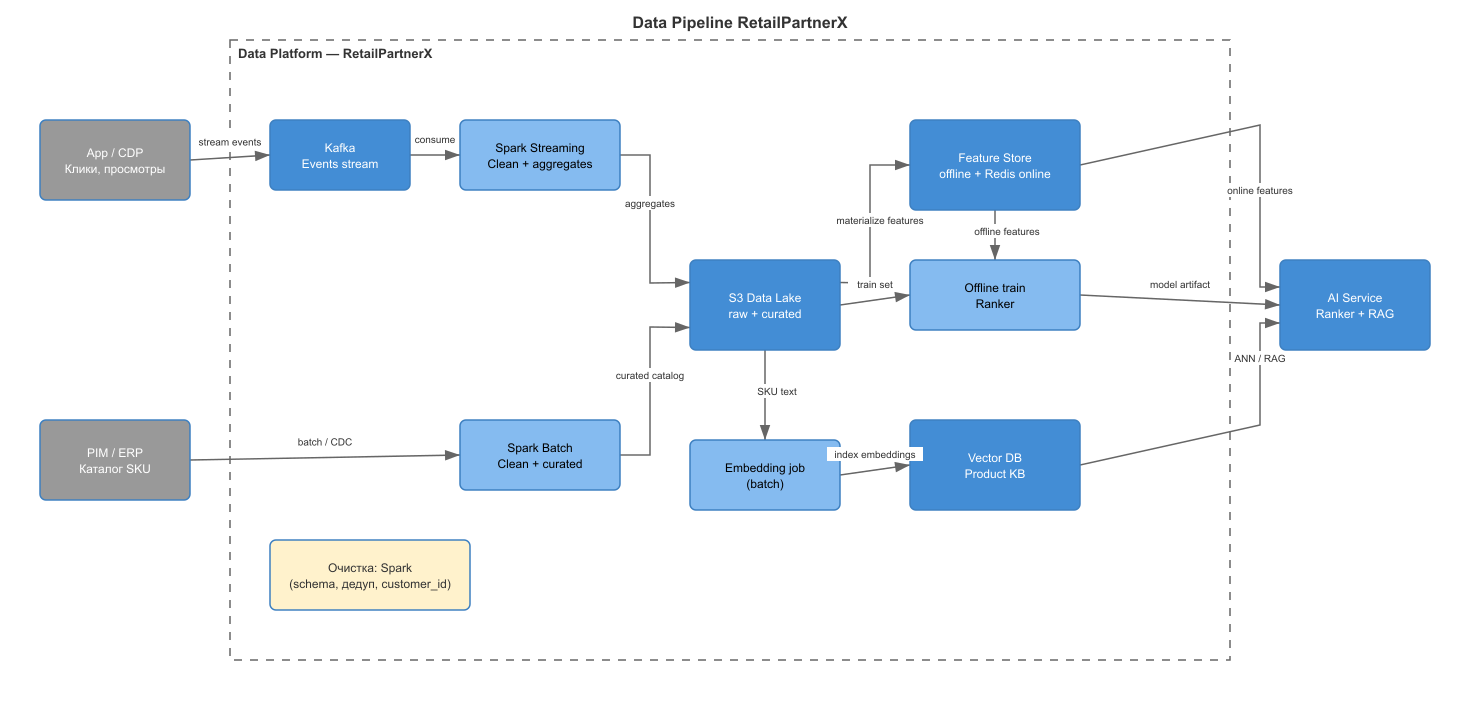
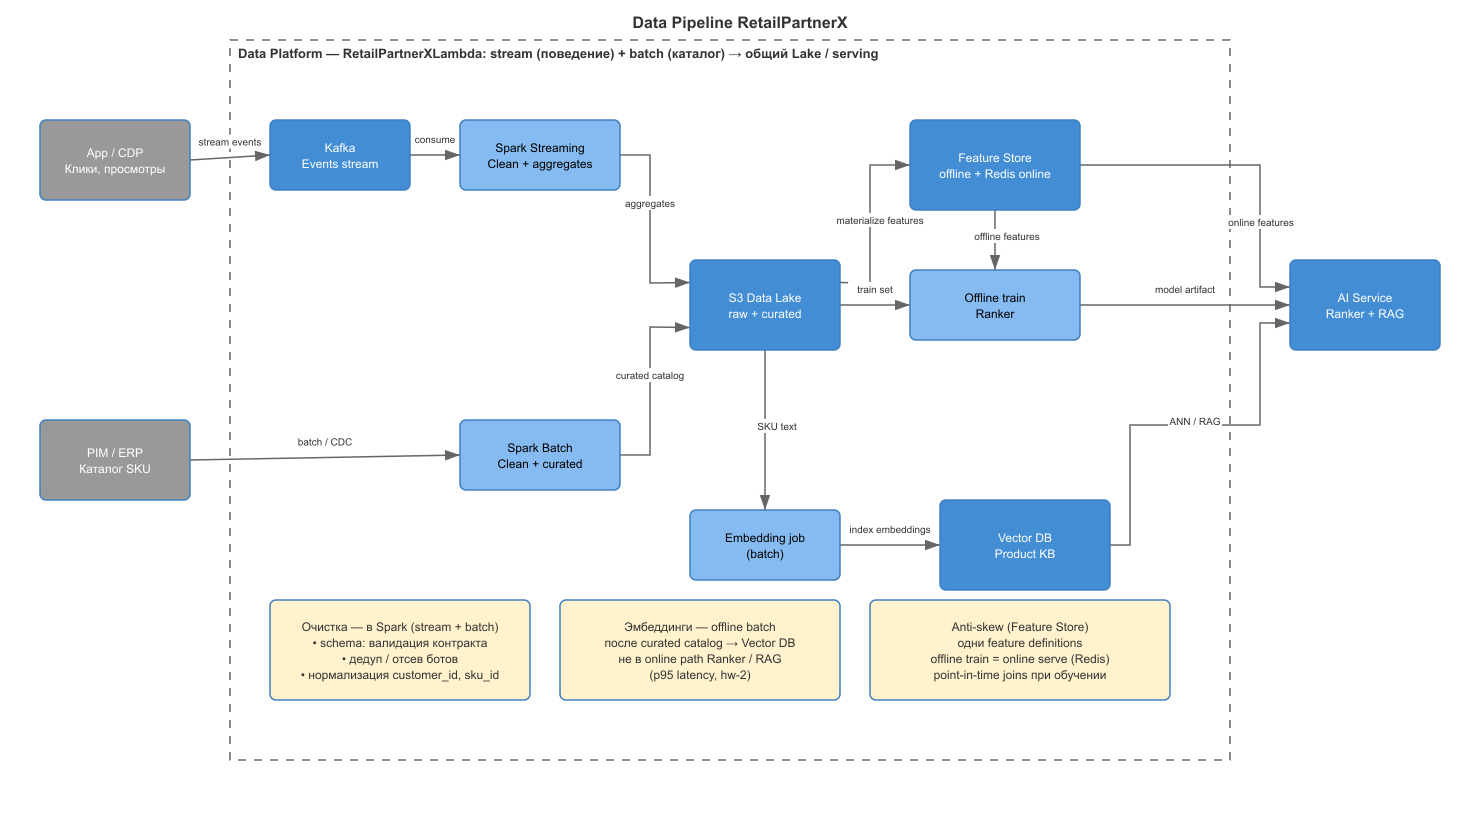
hw-5: fix

diff --git a/hw-5/README.md b/hw-5/README.md
@@ -25,10 +25,10 @@
 
 | Шаг ДЗ               | Документ / файл                                                                 |
 | -------------------- | ------------------------------------------------------------------------------- |
-| 1. Data Sources      | [docs/data-pipeline.md](docs/data-pipeline.md) — §1 источники (stream / batch)  |
-| 2. Pipeline Design   | [diagrams/data-pipeline.png](diagrams/data-pipeline.png) · [docs §2](docs/data-pipeline.md) |
-| 3. Storage Selection | [docs/data-pipeline.md](docs/data-pipeline.md) — §3 стек Kafka → Spark → S3 → FS / Vector DB |
-| 4. Data Governance   | [docs/data-pipeline.md](docs/data-pipeline.md) — §4 Training-Serving Skew        |
+| 1. Data Sources      | [docs/data-pipeline.md](docs/data-pipeline.md) — источники (stream / batch) |
+| 2. Pipeline Design   | [diagrams/data-pipeline.png](diagrams/data-pipeline.png) · [docs/data-pipeline.md](docs/data-pipeline.md) — ETL/ELT поток |
+| 3. Storage Selection | [docs/data-pipeline.md](docs/data-pipeline.md) — стек Kafka → Spark → S3 → FS / Vector DB |
+| 4. Data Governance   | [docs/data-pipeline.md](docs/data-pipeline.md) — Training-Serving Skew |
 
 ## Формат сдачи
 
@@ -41,9 +41,9 @@
 
 | Критерий         | Как закрыто                                                                                          |
 | ---------------- | ---------------------------------------------------------------------------------------------------- |
-| Выбор технологий | Stream (Kafka + Spark Streaming) vs Batch (PIM → Spark) — [docs](docs/data-pipeline.md) §1–3         |
+| Выбор технологий | Stream (Kafka + Spark Streaming) vs Batch (PIM → Spark) — [docs/data-pipeline.md](docs/data-pipeline.md) |
 | Полнота потока   | PIM/CDP → Lake → Feature Store / Vector DB → AI Service — [схема](diagrams/data-pipeline.png)        |
-| Feature Store    | Offline + Redis online, единые definitions, anti-skew — [docs](docs/data-pipeline.md) §4             |
+| Feature Store    | Offline + Redis online, единые definitions, anti-skew — [docs/data-pipeline.md](docs/data-pipeline.md) |
 
 Статус «Принято», если все три критерия выполнены.
 
